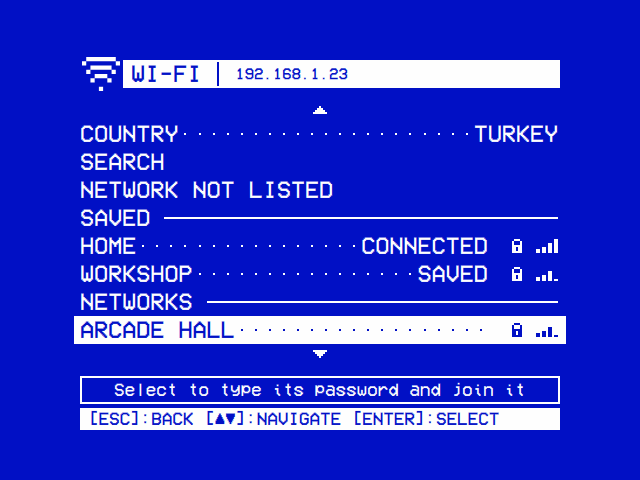
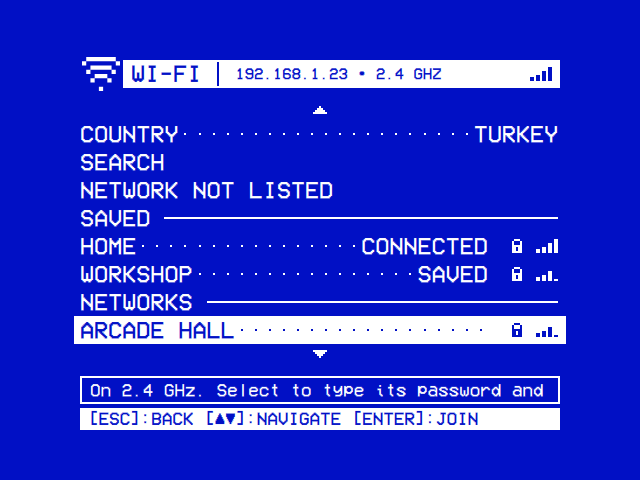
docs: retake the screenshots of the network pages and the controls after the menus' rework
Wi-Fi's page now shows the joined network's band beside its address in the
title bar, the help line of Arcade Hall opening with its band and the hint
bar naming Join; Bluetooth's page shows the hint bar naming Pair on the Mini
Keyboard. The Wi-Fi alt text in the wiki's Settings page names the band.
The country's chooser, the pairing code and the controller pages (Controls,
a pad's page, Player, Menu Buttons, the wait for a press, Test Buttons on the
JAMMA board, Game Buttons and Set One by One) show the same screens as
before and stay as they were.

diff --git a/docs/wiki/Settings.md b/docs/wiki/Settings.md
@@ -279,7 +279,7 @@ Every gamepad's starting map can also be set in the data folder's `input.cfg`.
 
 <table>
 <tr><th width="50%">Wi-Fi</th><th width="50%">The country</th></tr>
-<tr><td><img src="https://raw.githubusercontent.com/mehmetraif/OSD-OS/main/docs/screenshots/wifi.png" width="100%" alt="Wi-Fi: COUNTRY, SEARCH and NETWORK NOT LISTED, then the saved networks, HOME connected, and the others, each with its lock and its signal in bars" /></td><td><img src="https://raw.githubusercontent.com/mehmetraif/OSD-OS/main/docs/screenshots/wifi-country.png" width="100%" alt="The Wi-Fi country's chooser, the countries by name, Turkey chosen" /></td></tr>
+<tr><td><img src="https://raw.githubusercontent.com/mehmetraif/OSD-OS/main/docs/screenshots/wifi.png" width="100%" alt="Wi-Fi, the address and 2.4 GHz in its title bar: COUNTRY, SEARCH and NETWORK NOT LISTED, then the saved networks, HOME connected, and the others, each with its lock and its signal in bars, ARCADE HALL selected, its help line opening with On 2.4 GHz" /></td><td><img src="https://raw.githubusercontent.com/mehmetraif/OSD-OS/main/docs/screenshots/wifi-country.png" width="100%" alt="The Wi-Fi country's chooser, the countries by name, Turkey chosen" /></td></tr>
 <tr><td>Each network with its lock and its signal in bars.</td><td>▲ ▼ move a country at a time, ◄ ► from letter to letter.</td></tr>
 </table>
 
